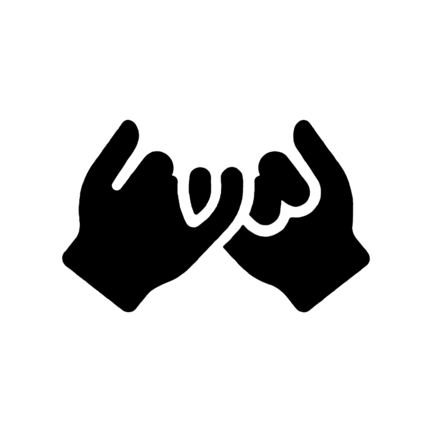
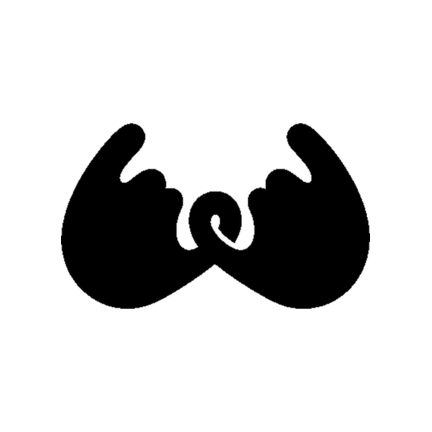
Apply Type A pinky brand mark

diff --git a/design-reference/styles/components.css b/design-reference/styles/components.css
@@ -4,55 +4,28 @@
    ============================================================= */
 
 /* -------------------------------------------------------------
-   PINKY MARK — 새끼손가락 두 개가 맞걸린 브랜드 심볼
-   viewBox 120×120 고정. 크기는 --lf-pinky-size 로 조절.
+   PINKY MARK — 타입 A 새끼손가락 약속 브랜드 심볼
+   승인 PNG의 알파를 마스크로 써서 모든 인라인 SVG가 동일 실루엣을 그린다.
    ------------------------------------------------------------- */
 .lf-pinky {
   --lf-pinky-size: 46px;
-  --lf-pinky-stroke: 15;
-  width: var(--lf-pinky-size);
+  width: calc(var(--lf-pinky-size) * 1.4);
   height: var(--lf-pinky-size);
+  background-color: var(--lf-color-brand-symbol);
+  -webkit-mask: url('../assets/images/brand-symbol.png') center / contain no-repeat;
+  mask: url('../assets/images/brand-symbol.png') center / contain no-repeat;
   flex: none;
 }
 
 .lf-pinky path {
-  fill: none;
-  stroke-width: var(--lf-pinky-stroke);
-  stroke-linecap: round;
-  transform-box: fill-box;
-  transform-origin: center;
+  display: none;
 }
 
-/* 기본: 진한 로즈 + 연한 로즈 (밝은 배경 위) */
-.lf-pinky__left  { stroke: var(--lf-color-primary); }
-.lf-pinky__right { stroke: var(--lf-color-primary-pale); }
+/* 잉크 배경의 역상 마크는 승인된 버터색을 쓴다. */
+.lf-pinky--on-primary { background-color: var(--lf-color-brand-symbol-on-action); }
 
-/* primary-container(#FFD9DE) 위에 올릴 때 — 보조 획을 흰색으로 */
-.lf-pinky--on-container .lf-pinky__right { stroke: var(--lf-color-surface); }
-
-/* primary(#C74B64) 위에 올릴 때 — 둘 다 흰색 */
-.lf-pinky--on-primary .lf-pinky__left  { stroke: var(--lf-color-on-primary); }
-.lf-pinky--on-primary .lf-pinky__right { stroke: var(--lf-color-on-primary); opacity: 0.65; }
-
-/* 걸었다 풀었다 반복하는 루프 애니메이션 (Q-3 홈 타이틀) */
-.lf-pinky--hooked .lf-pinky__left {
-  animation: lf-hook-left var(--lf-duration-hook) ease-in-out infinite;
-}
-.lf-pinky--hooked .lf-pinky__right {
-  animation: lf-hook-right var(--lf-duration-hook) ease-in-out infinite;
-}
-
-@keyframes lf-hook-left {
-  0%, 14%  { transform: translate(-9px, -7px) rotate(-9deg); }
-  42%, 86% { transform: translate(0, 0) rotate(0deg); }
-  100%     { transform: translate(-9px, -7px) rotate(-9deg); }
-}
-
-@keyframes lf-hook-right {
-  0%, 14%  { transform: translate(9px, 7px) rotate(-9deg); }
-  42%, 86% { transform: translate(0, 0) rotate(0deg); }
-  100%     { transform: translate(9px, 7px) rotate(-9deg); }
-}
+/* 완성된 손 모양을 훼손하지 않고 전체 마크를 짧게 반응시킨다. */
+.lf-pinky--hooked { animation: lf-pinky-hook var(--lf-duration-hook) ease-in-out infinite; }
 
 @keyframes lf-pop-in {
   from { transform: scale(0.6); opacity: 0; }
@@ -71,16 +44,15 @@
 .lf-pinky--tapped { animation: lf-pinky-hook var(--lf-duration-long) var(--lf-easing-standard); }
 
 @media (prefers-reduced-motion: reduce) {
-  .lf-pinky--hooked .lf-pinky__left,
-  .lf-pinky--hooked .lf-pinky__right,
+  .lf-pinky--hooked,
   .lf-pinky--tapped {
     animation: none;
   }
 }
 
 /* 브랜드 마크 크기 프리셋 */
-.lf-pinky--xs  { --lf-pinky-size: 20px; --lf-pinky-stroke: 16; }
-.lf-pinky--sm  { --lf-pinky-size: 26px; --lf-pinky-stroke: 16; }
+.lf-pinky--xs  { --lf-pinky-size: 20px; }
+.lf-pinky--sm  { --lf-pinky-size: 26px; }
 .lf-pinky--md  { --lf-pinky-size: 46px; }
 .lf-pinky--lg  { --lf-pinky-size: 56px; }
 .lf-pinky--xl  { --lf-pinky-size: 64px; }
@@ -1265,7 +1237,7 @@
 }
 
 /* 로그인 — 마스코트 아래 소형 핑키 글리프 */
-.sl-glyph { --lf-pinky-size: 38px; --lf-pinky-stroke: 10; margin-top: 4px; }
+.sl-glyph { --lf-pinky-size: 38px; margin-top: 4px; }
 
 /* 작성 화면 타자기 인트로 */
 .sl-typeline {

diff --git a/apps/mobile/config/firebase-config.test.js b/apps/mobile/config/firebase-config.test.js
@@ -1,4 +1,5 @@
 const { spawnSync } = require('node:child_process');
+const { createHash } = require('node:crypto');
 const { existsSync, readFileSync } = require('node:fs');
 const { resolve } = require('node:path');
 
@@ -7,6 +8,14 @@ const mobileRoot = resolve(__dirname, '..');
 const googleServicesPath = resolve(__dirname, '../google-services.json');
 const brandSymbolPath = resolve(__dirname, '../assets/images/brand-symbol.png');
 const webBrandSymbolPath = resolve(__dirname, '../../web/src/assets/images/brand-symbol.png');
+const referenceBrandSymbolPath = resolve(
+  __dirname,
+  '../../../design-reference/assets/images/brand-symbol.png',
+);
+const webBrandSymbolOnActionPath = resolve(
+  __dirname,
+  '../../web/src/assets/images/brand-symbol-on-action.png',
+);
 
 test('Android 네이티브 빌드가 커밋된 Firebase 클라이언트 설정을 사용한다', () => {
   expect(appConfig.expo.android.googleServicesFile).toBe('./google-services.json');
@@ -51,7 +60,26 @@ test('Expo 네이티브 빌드 이미지가 존재하고 EAS 업로드에서 제
   }
 });
 
-test('UI 브랜드 심볼은 투명 여백을 제거한 730×458 RGBA PNG다', () => {
+test('Android 배포 이미지는 승인된 타입 A 내보내기와 일치한다', () => {
+  const approvedHashes = {
[1 lines of base64/hex data omitted]
+    'assets/images/android-icon-foreground.png':
[1 lines of base64/hex data omitted]
+    'assets/images/android-icon-background.png':
[1 lines of base64/hex data omitted]
+    'assets/images/android-icon-monochrome.png':
[1 lines of base64/hex data omitted]
+    'assets/images/splash-icon.png':
[1 lines of base64/hex data omitted]
+  };
+
+  for (const [relativePath, expectedHash] of Object.entries(approvedHashes)) {
+    const bytes = readFileSync(resolve(mobileRoot, relativePath));
+    expect(createHash('sha256').update(bytes).digest('hex')).toBe(expectedHash);
+  }
+});
+
+test('타입 A UI 브랜드 심볼은 세 대상이 공유하는 730×458 RGBA PNG다', () => {
   const png = readFileSync(brandSymbolPath);
 
   expect(png.subarray(1, 4).toString('ascii')).toBe('PNG');
@@ -60,13 +88,26 @@ test('UI 브랜드 심볼은 투명 여백을 제거한 730×458 RGBA PNG다', (
   // IHDR color type 6은 checkerboard 그림이 아니라 실제 RGBA 투명도를 뜻한다.
   expect(png[25]).toBe(6);
   expect(readFileSync(webBrandSymbolPath)).toEqual(png);
+  expect(readFileSync(referenceBrandSymbolPath)).toEqual(png);
+  expect(createHash('sha256').update(png).digest('hex')).toBe(
[1 lines of base64/hex data omitted]
+  );
+
+  const onAction = readFileSync(webBrandSymbolOnActionPath);
+  expect(onAction.readUInt32BE(16)).toBe(730);
+  expect(onAction.readUInt32BE(20)).toBe(458);
+  expect(onAction[25]).toBe(6);
 });
 
-test('Android 런처와 스플래시 배경도 A안 화면 토큰을 따른다', () => {
+test('Android 런처·스플래시·알림은 승인한 잉크·버터 색을 따른다', () => {
   const splashPlugin = appConfig.expo.plugins.find(
     (plugin) => Array.isArray(plugin) && plugin[0] === 'expo-splash-screen',
   );
+  const notificationPlugin = appConfig.expo.plugins.find(
+    (plugin) => Array.isArray(plugin) && plugin[0] === 'expo-notifications',
+  );
 
-  expect(appConfig.expo.android.adaptiveIcon.backgroundColor).toBe('#E7F4ED');
-  expect(splashPlugin[1].backgroundColor).toBe('#F7F8F6');
+  expect(appConfig.expo.android.adaptiveIcon.backgroundColor).toBe('#221C13');
+  expect(splashPlugin[1].backgroundColor).toBe('#F3ECDC');
+  expect(notificationPlugin[1].color).toBe('#F6E7A3');
 });

diff --git a/apps/web/src/components/LfPinky.test.tsx b/apps/web/src/components/LfPinky.test.tsx
@@ -1,0 +1,30 @@
+// @vitest-environment jsdom
+import { cleanup, render, screen } from '@testing-library/react';
+import { afterEach, describe, expect, it } from 'vitest';
+
+import { LfPinky } from './LfPinky.tsx';
+
+afterEach(cleanup);
+
+describe('LfPinky', () => {
+  it('밝은 면에서는 타입 A 잉크 자산을 쓴다', () => {
+    render(<LfPinky accessibilityLabel="새끼손가락 약속" />);
+
+    const mark = screen.getByRole('img', { name: '새끼손가락 약속' });
+    expect(mark.getAttribute('src')).toContain('brand-symbol.png');
+  });
+
+  it('잉크 면에서는 동일 알파의 버터 자산을 쓴다', () => {
+    render(<LfPinky tone="onPrimary" accessibilityLabel="새끼손가락 약속" />);
+
+    const mark = screen.getByRole('img', { name: '새끼손가락 약속' });
+    expect(mark.getAttribute('src')).toContain('brand-symbol-on-action.png');
+    expect(mark.className).toContain('lf-pinky--on-primary');
+  });
+
+  it('라벨이 없는 장식용 마크는 접근성 트리에서 숨긴다', () => {
+    const { container } = render(<LfPinky />);
+
+    expect(container.querySelector('img')?.getAttribute('aria-hidden')).toBe('true');
+  });
+});

diff --git a/apps/mobile/src/components/components.test.tsx b/apps/mobile/src/components/components.test.tsx
@@ -294,16 +294,17 @@ describe('LfPinky', () => {
     expect(view.getByRole('image', { name: '새끼손가락 약속' })).toBeTruthy();
   });
 
-  test('소프트 액션 면에서는 밝은 아이보리로 대비한다', async () => {
+  test('잉크 액션 면에서는 버터색으로 반전한다', async () => {
     const view = await render(<LfPinky testID="pinky" tone="onPrimary" />);
     const mark = view.getByTestId('pinky', { includeHiddenElements: true });
     expect(flatten(mark.props.style).tintColor).toBe(colors.brandSymbolOnAction);
+    expect(flatten(mark.props.style).tintColor).toBe('#F6E7A3');
   });
 
-  test('정보 맥락에서는 Record Blue로 표시한다', async () => {
-    const view = await render(<LfPinky testID="pinky" tone="record" />);
+  test('밝은 컨테이너에서는 잉크색을 유지한다', async () => {
+    const view = await render(<LfPinky testID="pinky" tone="onContainer" />);
     const mark = view.getByTestId('pinky', { includeHiddenElements: true });
-    expect(flatten(mark.props.style).tintColor).toBe(colors.record);
+    expect(flatten(mark.props.style).tintColor).toBe(colors.brandSymbol);
   });
 });
 

diff --git a/apps/mobile/src/components/LfPinky.tsx b/apps/mobile/src/components/LfPinky.tsx
@@ -8,8 +8,8 @@ import { colors } from '../theme/tokens';
  */
 
 export type LfPinkySize = 'xs' | 'sm' | 'md' | 'lg' | 'xl';
-/** 소프트 액션 면만 밝은 아이보리로 반전하고 나머지는 승인된 진한 그린을 유지한다. */
-export type LfPinkyTone = 'default' | 'record' | 'onContainer' | 'onPrimary';
+/** 잉크·버터 두 색만 반전해 브랜드 마크의 정체성을 고정한다. */
+export type LfPinkyTone = 'default' | 'onContainer' | 'onPrimary';
 
 export interface LfPinkyProps {
   size?: LfPinkySize;
@@ -30,7 +30,6 @@ const BRAND_SYMBOL = require('../../assets/images/brand-symbol.png') as number;
 
 function tint(tone: LfPinkyTone): string {
   if (tone === 'onPrimary') return colors.brandSymbolOnAction;
-  if (tone === 'record') return colors.record;
   return colors.brandSymbol;
 }
 

diff --git a/apps/web/src/styles/components.css b/apps/web/src/styles/components.css
@@ -14,8 +14,7 @@
   flex: none;
 }
 
-/* 단색 PNG의 알파는 보존하고 primary 배경에서만 흰색으로 반전한다. */
-.lf-pinky--on-primary { filter: brightness(0) invert(1); }
+/* on-primary는 컴포넌트가 동일 알파의 버터 PNG를 선택한다. 필터로 색을 근사하지 않는다. */
 
 /* 완성된 손 모양을 훼손하지 않고 전체 마크를 짧게 반응시킨다. */
 .lf-pinky--hooked { animation: lf-pinky-hook var(--lf-duration-hook) ease-in-out infinite; }
@@ -1228,7 +1227,7 @@
 }
 
 /* 로그인 — 마스코트 아래 소형 핑키 글리프 */
-.sl-glyph { --lf-pinky-size: 38px; --lf-pinky-stroke: 10; margin-top: 4px; }
+.sl-glyph { --lf-pinky-size: 38px; margin-top: 4px; }
 
 /* 작성 화면 타자기 인트로 */
 .sl-typeline {

diff --git a/apps/web/src/components/LfPinky.tsx b/apps/web/src/components/LfPinky.tsx
@@ -1,4 +1,5 @@
 import brandSymbolUrl from '../assets/images/brand-symbol.png';
+import brandSymbolOnActionUrl from '../assets/images/brand-symbol-on-action.png';
 
 export type LfPinkySize = 'xs' | 'sm' | 'md' | 'lg' | 'xl';
 export type LfPinkyTone = 'default' | 'onContainer' | 'onPrimary';
@@ -30,7 +31,7 @@ export function LfPinky({
   return (
     <img
       className={className}
-      src={brandSymbolUrl}
+      src={tone === 'onPrimary' ? brandSymbolOnActionUrl : brandSymbolUrl}
       alt={accessibilityLabel ?? ''}
       {...(accessibilityLabel === undefined ? { 'aria-hidden': true } : {})}
     />

diff --git a/apps/mobile/src/components/LfHelper.tsx b/apps/mobile/src/components/LfHelper.tsx
@@ -24,7 +24,7 @@ const styles = StyleSheet.create({
 export function LfHelper({ text }: LfHelperProps): React.JSX.Element {
   return (
     <View style={styles.root}>
-      <LfPinky size="xs" tone="record" />
+      <LfPinky size="xs" />
       <View style={styles.copy}><LfText secondary>{text}</LfText></View>
     </View>
   );

diff --git a/docs/adr/0013-type-a-pinky-loop-brand-mark.md b/docs/adr/0013-type-a-pinky-loop-brand-mark.md
@@ -1,0 +1,48 @@
+# 0013. Type A Pinky Loop brand mark
+
+Date: 2026-08-27
+Status: Accepted (PO-confirmed final board, 2026-08-27)
+Supersedes: the green brand-symbol asset retained through ADR 0012
+
+## Context
+
+The Ink & Sticker restyle established ink and butter as the identity pair but deliberately left a
+new hand-drawn icon set unconfirmed. The shipped brand symbol still used the older green two-hand
+asset, while the Android launcher, adaptive icon, splash image, acceptance web, and React Native
+component all consumed separate derivatives. Changing only one would make the installed app and
+the product surface disagree.
+
+The PO compared an abstract oval-gap mark with **Type A — Pinky Loop** and selected Type A. The
+selected silhouette shows two equal hands with their little fingers visibly hooking in the centre.
+The PO also fixed the colour application: launcher icon = ink field with white hands; in-product
+mark = ink on butter or its butter-on-ink inverse.
+
+## Decision
+
+1. **One silhouette:** the approved Type A board is converted to a monochrome 730×458 RGBA alpha
+   mask. Mobile, acceptance web, and `design-reference` keep byte-identical copies named
+   `brand-symbol.png`. The two hands are never tinted independently.
+2. **Launcher system:** legacy `icon.png` and Android adaptive layers use ink `#221C13` behind
+   paper white `#FFFDF4`. The foreground stays transparent and inside the existing safe-zone
+   envelope. The platform, not the bitmap, owns corner clipping and launcher shadows.
+3. **In-product system:** the default mark is ink on butter `#F6E7A3`; the inverse is butter on
+   ink. React Native tints the shared mask with `brandSymbol` / `brandSymbolOnAction`. The web uses
+   an exact butter derivative instead of a CSS filter approximation. The prior lavender `record`
+   tone is removed from `LfPinky`.
+4. **Supporting native assets:** the splash uses the primary in-product badge (ink hands on a
+   butter circle) on the cream canvas. Android monochrome notification artwork reuses the same
+   Type A alpha, with butter as the notification accent colour.
+5. **Regression lock:** tests pin the shared-mask hash, require byte equality across the three
+   targets, pin every Android bitmap hash, and assert the launcher/splash/notification colours in
+   `app.json`.
+
+## Consequences
+
+- Every rendered Littlefinger brand mark now has the same hand geometry and only the approved
+  ink/butter/paper colour roles.
+- The acceptance reference changes under explicit PO approval; its old inline SVG paths remain as
+  inert fallback markup while CSS masks them with the canonical asset.
+- The next Google Play internal-test bundle must use a new version code because launcher assets
+  are part of the signed Android package.
+- This decision approves the brand mark only. It does not approve a replacement for the general
+  Material icon set or the deferred Promise Seam redesign.

diff --git a/docs/DEVELOPMENT_STATUS.md b/docs/DEVELOPMENT_STATUS.md
@@ -13,9 +13,22 @@ components.css per PO confirmation) with the value-pinning tests moved deliberat
 supersedes the 2026-08-23 palette-A baseline below; `DESIGN.md` was rewritten and ADR 0012 records
 the decisions and deviations.
 
-- Gates (2026-08-27): typecheck 5 projects · Vitest **104 files / 2,017** · Jest **72 suites /
-  723** (fonts.test 4→2 weight params −4, +2 decor smoke tests) — PASS. Six merged reference
-  screens compared side-by-side in Chrome against the bundle's own preview.
+- Gates (2026-08-27): typecheck 5 projects · Vitest **105 files / 2,020** · Jest **72 suites /
+  738** — PASS. Six merged reference screens compared side-by-side in Chrome against the bundle's
+  own preview; the acceptance-web production build transformed **134 modules** successfully.
+- **Type A Pinky Loop brand mark (PO-confirmed 2026-08-27, ADR 0013):** one approved silhouette
+  now drives the launcher, adaptive icon, splash, notification icon, RN, acceptance web, and
+  frozen reference. Launcher = ink/paper-white; in-product = ink/butter or butter/ink inverse.
+  Hash-pinning tests lock every native derivative and byte equality across the three UI targets.
+  Clean Browser-plugin passes on reference SCR-A02 and the Vite SCR-W01 route found no console
+  warning, overlay, or horizontal overflow; computed colours were exact ink/butter tokens.
+- **Play internal-test package (2026-08-27)**: EAS production build `c91b19e7` finished from
+  commit `f180d53` as `com.littlefinger.app` `0.1.0` (`versionCode 8`). The downloaded
+  `dist/littlefinger-internal-v0.1.0-code8.aab` passed bundletool 1.18.1 validation and JAR
+  signature verification; min/target SDK are 24/36 and all four Android ABIs are present. Its
+  upload-certificate SHA-256 matches the versionCode 6 AAB already used for the Play internal
+  track, and the artifact SHA-256 is
[1 lines of base64/hex data omitted]
 - PO legibility correction (2026-08-27): shared disclaimer/supporting copy moved from micro
   11.5/16 + regular + `text-faint` to caption 12.5/18 + bold + `text-secondary` across the
   reference, acceptance web, and RN. SCR-W04 browser verification measured 4.88:1 contrast on

diff --git a/DESIGN.md b/DESIGN.md
@@ -65,6 +65,22 @@ Rules:
 8. Kakao and Google login buttons keep their official guide colours; only the shape (pill + ink
    border) is themed.
 
+## Brand mark
+
+The approved mark is **Type A — Pinky Loop** (PO-confirmed 2026-08-27): two equal hand silhouettes
+whose little fingers visibly hook in the centre. The mark is a single-colour alpha mask; screens
+must not redraw, stretch, split, or recolour its two hands independently.
+
+- **Launcher icon:** ink `#221C13` field with paper-white `#FFFDF4` hands. Android/iOS own the
+  platform mask, so exported launcher artwork has no baked corner radius or presentation shadow.
+- **In-product primary:** ink hands on a butter `#F6E7A3` container.
+- **In-product inverse:** butter hands on an ink container, including the central Create action.
+- Lavender/apricot/danger are never brand-mark colours. They remain semantic UI colours around
+  the mark, not inside it.
+- `apps/mobile/assets/images/brand-symbol.png`, `apps/web/src/assets/images/brand-symbol.png`, and
+  `design-reference/assets/images/brand-symbol.png` are byte-identical copies of the approved
+  730×458 RGBA mask. Platform derivatives must preserve that silhouette.
+
 ## Typography
 
 - Gaegu (400/700) is the product typeface, with Pretendard (and the web's metric fallback) behind
@@ -156,3 +172,6 @@ first, then mirrored and tested.
   screens (A00·A01·A02·A03·A05 ACTIVE·A08). Palette A, the asymmetric hero, and the Karrot
   full-bleed home rows are superseded (ADR 0012). Per-screen decoration beyond the six screens,
   hand-drawn icons, and the Seam rework remain unconfirmed.
+- 2026-08-27: PO confirmed Type A — Pinky Loop as the production brand mark: launcher = ink/paper,
+  in-product = ink/butter with its inverse. The previous green mark and abstract oval-gap proposal
+  are superseded (ADR 0013).
